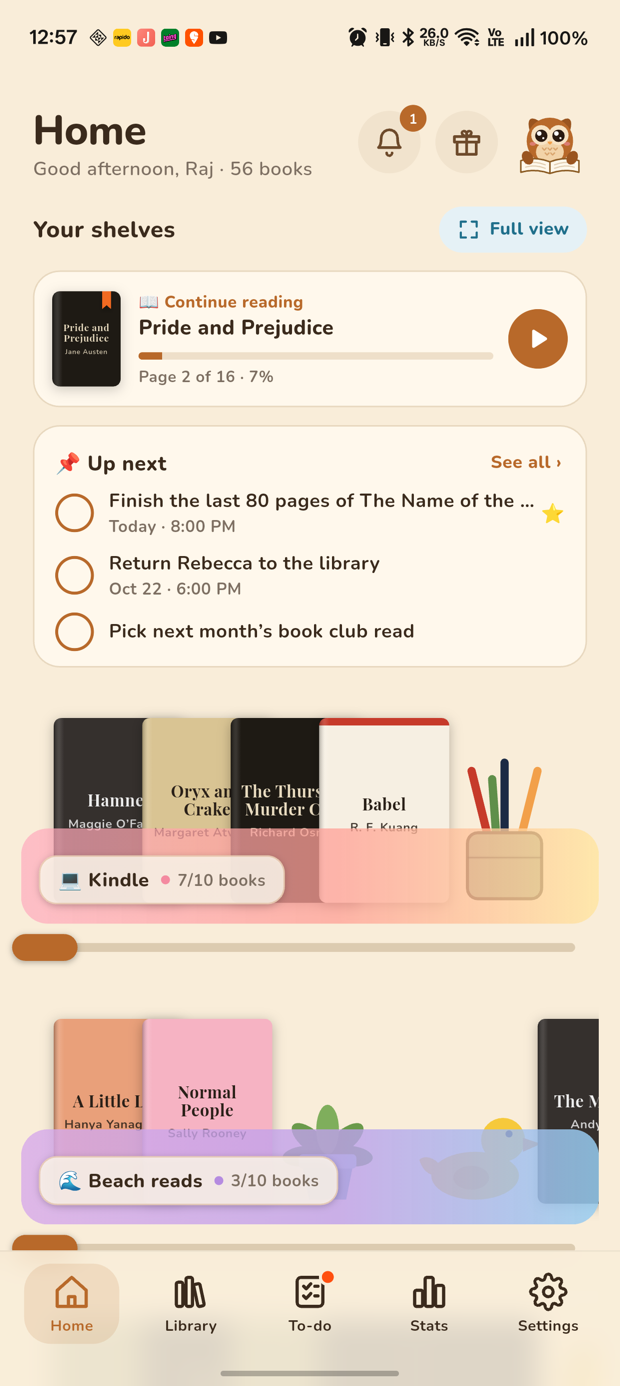
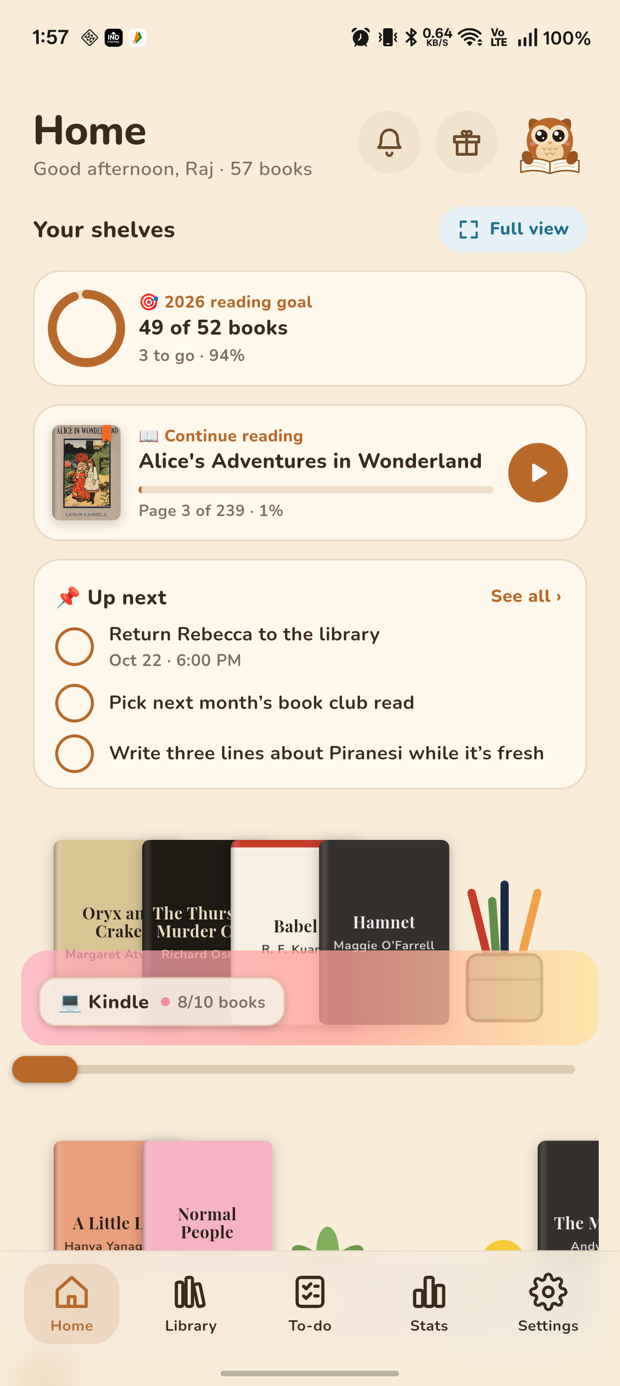
Website: 1.2 screenshots, backgrounds, offline and backup FAQ

diff --git a/docs/index.html b/docs/index.html
@@ -14,7 +14,7 @@
 <meta property="og:type" content="website">
 <meta property="og:site_name" content="Shelfwise">
 <meta property="og:title" content="Shelfwise — your cozy bookshelf &amp; reading to-dos">
-<meta property="og:description" content="A cozy personal bookshelf and reading to-do app for Android. Pretty shelves, reading plans, stats and little rewards. Free, offline, no account, no ads.">
+<meta property="og:description" content="A cozy personal bookshelf and reading to-do app for Android. Pretty shelves, a PDF and EPUB reader, reading plans, stats and little rewards. Free, offline, no account, no ads.">
 <meta property="og:url" content="https://mr-who-root.github.io/shelfwise/">
 <meta property="og:image" content="https://mr-who-root.github.io/shelfwise/screens/home.png">
 <meta property="og:image:alt" content="The Shelfwise home screen: a cozy, decorated bookshelf">
@@ -1206,8 +1206,8 @@ h1,h2,h3{margin:0}
         <!-- Look -->
         <article class="fcard reveal" style="--d:2">
           <span class="ficon" aria-hidden="true"><svg viewBox="0 0 24 24" fill="none" stroke="currentColor" stroke-width="1.9" stroke-linecap="round" stroke-linejoin="round"><path d="M21 12.8A9 9 0 1 1 11.2 3a7 7 0 0 0 9.8 9.8z"/></svg></span>
-          <h3>Light, dark &amp; your fonts</h3>
-          <p>Choose light, dark or follow your phone. Pick an accent colour (Cinnamon, Forest, Plum, Ocean or Rose), a font (Nunito, Inter or Lora) and a text size.</p>
+          <h3>Backgrounds, themes &amp; fonts</h3>
+          <p>Choose light, dark or follow your phone, then a background (Cream, Paper, Sage, Sky, Blush or Lavender) with an optional pattern: dots, ruled lines, grid paper or linen. Add an accent colour, a font (Nunito, Inter or Lora) and a text size.</p>
         </article>
 
         <!-- Private & backup -->
@@ -1297,7 +1297,7 @@ h1,h2,h3{margin:0}
         </details>
         <details class="reveal">
           <summary>Does it need internet?<span class="pm" aria-hidden="true"></span></summary>
-          <div class="answer"><p>No. Shelfwise works fully offline. You only need a connection to download the APK, or if you choose to send a backup through Drive, email or a chat app.</p></div>
+          <div class="answer"><p>No. Your shelves, reader, to-dos and stats all work offline. Shelfwise only goes online to check for a new version, to look up a book when you scan its barcode, or when you choose to send a backup through Drive, email or a chat app.</p></div>
         </details>
         <details class="reveal">
           <summary>Where is my data?<span class="pm" aria-hidden="true"></span></summary>
@@ -1310,7 +1310,7 @@ h1,h2,h3{margin:0}
           <summary>How do I move to a new phone?<span class="pm" aria-hidden="true"></span></summary>
           <div class="answer">
             <ol>
-              <li>On your old phone, open <strong>Settings → Share backup</strong> and send the file somewhere you can reach it — Google Drive, email, or a chat with yourself.</li>
+              <li>On your old phone, open <strong>Settings → Share backup</strong> and send the file somewhere you can reach it — Google Drive, email, or a chat with yourself. Turn on <strong>Include book files</strong> first if you want your PDFs and EPUBs to come along.</li>
               <li>Install Shelfwise on the new phone (see <a href="#install">How to install</a>).</li>
               <li>Open <b>Settings → Import backup</b>, pick the file, and your shelves come back just as you left them.</li>
             </ol>
